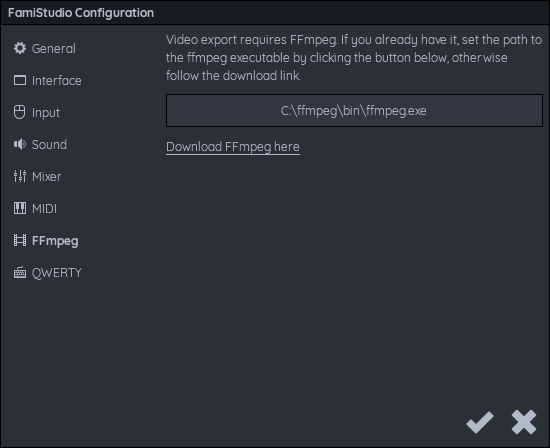
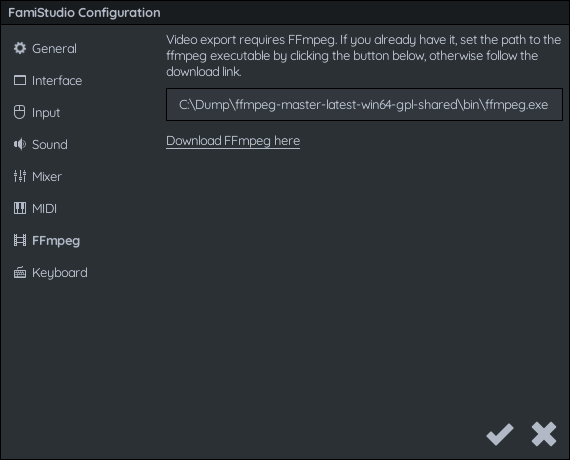
Doc update for 4.1.0.

diff --git a/Docs/docs/config.md b/Docs/docs/config.md
@@ -10,15 +10,21 @@ The configuration dialog dialog is accessed from the toolbar.
 
 ![](images/ConfigGeneral.png#center)
 
+* **Language**: Language to use in the app. These translations are user-contributed and may vary in quality/completeness. This also may affect the font used inside the app. By default, FamiStudio will try to make a best-guess based on the language of the OS.
+
 * **Check for updates**: At startup FamiStudio checks for new version online. This can be disabled.
 
 * **Show Tutorial at Startup**: If enabled, the on-boarding tutorial will be showed when FamiStudio is launched.
 
 * **Clear Undo/Redo on save**: Wipes the undo/redo stack every time the project is saved. This help keep the memory usage lower, but limits your ability to undo indefinitely.
 
+* **Rewing after play** : If enabled, the play head will move back to its previous location when stopping playback.
+
 * **Open last project on start**: Remember which project you last open and re-opens it next time you launch FamiStudio.
 
 * **Auto-save a copy every 2 minutes**: Save a backup copy of the current project every 2 minutes. This may prevent loosing data when the application crashes.
+
+* **Pattern name prefix** / **digits**: Allows customizing the default name of patterns. The prefix may be empty to get a purerely numeric name. The number of digit will be prefixed with zeroes.
 
 ## User Interface Configuration
 
@@ -39,19 +45,25 @@ The configuration dialog dialog is accessed from the toolbar.
     * **Piano Roll**: Only enables follow mode in the piano roll.
     * **Both**: Enables follow mode on both controls.<br><br>
 
+* **Follow Mode Range Limit**: The position at which follow mode your start scrolling, relative to the width of the sequencer/piano roll.
+
 * **Scroll Bars**: Display scrolls bars in the Sequencer and the Piano Roll.
 
     * **None**: No scroll bares.
     * **Thin**: Small scroll bars.
     * **Thick**: Large scroll bars.<br><br>
 
-* **Ideal Sequencer Height** : The ideal height of the Sequencer, in percentage of the height of the FamiStudio window. Note that patterns have a minimum size, so this *ideal* size may not be achievable when there are many channels.
+* **Ideal Sequencer Height**: The ideal height of the Sequencer, in percentage of the height of the FamiStudio window. Note that patterns have a minimum size, so this *ideal* size may not be achievable when there are many channels.
+
+* **DPCM Channel Color Mode**: Color to use for the notes on the DPCM channel. You may use the color of the instrument, or the color of the DPCM samples.
 
 * **Allow Sequencer Vertical Scrolling** : If enabled and the ideal height above cannot be achieve (usually because there are too many channels), will allow vertically scrolling in the sequencer instead of going above the ideal size.
 
 * **Show FamiTracker Stop Notes**: When using FamiTracker tempo mode, display implicit stop notes (whenever a note ends without being interrupted by another note) as little triangles. This makes it easier to set note delays for those.
 
-* **Show Piano Roll View Range**: Displays a yellow rectangle in the sequencer representing the view range of the piano roll.
+* **Show Register View Tab**: When enabled, will show the Register Viewer tab in the Project Explorer, which displays the state of the registers in real-time.
+
+* **Use Operating System Dialogs**: If enabled, will use the Windows dialogs for things like file open/save and message boxes. When disabled, will use the custom FamiStudio dialogs. This is only available on Windows.
 
 ## Input Configuration
 
@@ -78,7 +90,9 @@ The configuration dialog dialog is accessed from the toolbar.
 
 * **Prevent popping on square channels**: The NES/Famicom had a bug where the phase of square channels will reset around some notes (A-3, A-2, D-2, A-1, F-1, D-1, and B-0 on NTSC, or A#3, A#2, D#2, A#1, F#1, D#1, and C-0 on PAL), resulting in audible clicks or pops. This option will work around that bug using the Smooth Vibrato technique by Blaarg, resulting in smooth pitch changes. Note that this option will not carry over to FamiTracker if you export.
 
-* **Clamp periods and notes** : Notes that go below the lowest possible note or above the highest possible note will typically wrap around when listening the song on real hardware. This is due to the fact that currently the SoundEngine does not clamp notes or period to the valid range. The emulation inside FamiStudio does it by default. If you want a more hardware accurate behavior, you can disable this option.
+* **Mix Namco 163 channels**: When enabled, FamiStudio will correctly mix the Namco 163 channels. Leave this OFF and set a very agressive low-pass filter to mimic real hardware. 
+
+* **Clamp periods and notes**: Notes that go below the lowest possible note or above the highest possible note will typically wrap around when listening the song on real hardware. This is due to the fact that currently the SoundEngine does not clamp notes or period to the valid range. The emulation inside FamiStudio does it by default. If you want a more hardware accurate behavior, you can disable this option.
 
 * **Mute piano roll interactions during playback** : When enabled, dragging/adding notes in the piano roll will not preview the notes when the song is playing. Some users find this distracting.
 
@@ -108,11 +122,11 @@ Note that these settings have no effect outside of FamiStudio.
 
 FFMpeg is a video encoder required to enable video export. You can download it from [here](ffmpeg.md). Once downloaded and installed somewhere on your computer, you will need to tell FamiStudio where it is.
 
-## QWERTY Configuration
+## Keyboards Configuration
 
-![](images/ConfigQWERTY.png#center)
+![](images/ConfigKeys.png#center)
 
-This section allows remapping the keyboard keys for keyboard-piano input. This allows FamiStudio to support AZERTY, QWERTZ or any other international keyboard. Up to 2 keys can be assigned to a note.
+This section allows remapping the keyboard shortcuts for most actions. The default layout will usually be based off the QWERTY layout, but it can be modified after to support arbitrary keyboard layouts such as QWERTZ or AZERTY.
 
 ## Mobile Configuration
 

diff --git a/Docs/docs/dpcm.md b/Docs/docs/dpcm.md
@@ -2,7 +2,11 @@
 
 DPCM (Delta Pulse Code Modulation) samples are 1-bit digital samples that the NES/Famicom supports. They are of very low quality but have been used quite successfully for drums and basses. 
 
-To use a DPCM sample, it first needs to be loaded, then it needs to be assigned to a key of the piano, in the DPCM instrument.
+To use a DPCM sample, it first needs to be loaded, then it needs to be assigned to a key of the piano of a specific instrument. To edit the key/sample assignments of an instrument, click the little "sample" (rightmost) icon next to an instrument.
+
+> Prior to FamiStudio 4.1.0, only a special "DPCM Instrument" could hold samples
+> in that way. This is no longer the case, any non-expansion intrument can now hold
+> samples. 
 
 The samples workflow in FamiStudio is lossless in a way that once a sample is imported, any modification done to it will not modify the source data. Every time a parameter is changed, the source data will be re-processed to generate the final sample.
 
@@ -26,7 +30,7 @@ If you do not wish to use the built-in DPCM sample editor of FamiStudio there ar
 
 Samples are loaded by clicking the little folder icon next to the "DPCM Samples" section in the project explorer. FamiStudio can import samples from WAV files or from a DMC files. Note that importing DMC files and doing extensive processing is not recommended as these samples are very low-quality to begin with and any extra processing will degrade it further.
 
-It is also possible to import samples from another FamiStudio project. Note that doing this will not import the sample assignments to keys of the piano (DPCM Instrument). To import those as well, you maybe want to import the DPCM instrument in the Instrument section of the Project Explorer.
+It is also possible to import samples from another FamiStudio project. Note that doing this will not import the sample assignments to keys of the piano or any instrument information. To import those as well, you maybe want to import the whole instrument instrument in the Instrument section of the Project Explorer. This will import all the piano/key assignments, as well as the used samples.
 
 Once loaded, you can rename a sample or change its color by clicking the gear icon (or double-clicking on it)button. You can also play the sample by clicking the little play button next to it:
 
@@ -105,9 +109,15 @@ Clicking on the little disk icon in the Project Explorer allows you to export a 
 * Left-clicking will export the processed sample as a DMC file.
 * Right-clicking will export the source data (in its original format, WAV or DMC)
 
-## Assigning a DPCM sample to a key of the DPCM instrument
+## Assigning a DPCM sample to an instrument
 
-Once a sample is loaded, it can be assign to a key of the "DPCM instrument". Clicking on the little icon next to the DPCM Instrument in the project explorer will open the piano roll in DPCM edition mode.
+Once a sample is loaded, it can be assign to a key of an instrument. 
+
+> Prior to FamiStudio 4.1.0, only a special "DPCM Instrument" could hold samples
+> in that way. This is no longer the case, any non-expansion intrument can now hold
+> samples. 
+
+Clicking on the little "sample" (rightmost) icon next to the a non-expansion instrument in the project explorer will open the piano roll in DPCM edition mode.
 
 ![](images/DPCMInstrument.png#center)
 

diff --git a/Docs/docs/changelog.md b/Docs/docs/changelog.md
@@ -2,6 +2,36 @@
 
 Version history / release notes for each release.
 
+## Version 4.1.0
+
+System Requirement Changes:
+
+* Windows version is now 64-bit and targets .NET 5.0.
+* Linux/MacOS versions now uses .NET 6.0. Mono is not longer used (See [installation](install.md) page for .NET download links)
+* All desktop version now requires OpenGL 3.3.
+* Android version now requires OpenGL ES 2.0.
+* Windows 7 and 32-bit systems are longer supported.
+
+Changes/Fixes:
+
+* Configurable keyboard shortcuts
+* Text rendering changes, small text may look slightly blurrier. 
+* More UI scaling % options
+* More context menus options throughout the app
+* DPCM improvements:
+	* No more "DPCM instrument", each instrument can have DPCM samples assigned (a-la FamiTracker)
+	* Up to 256KB of samples using bank switching.
+* Option to mix N163 or not
+* Project explorer sorting improvements
+* NSF import support on Android
+* Stereo and delay export support on Android.
+* Sunsoft 5B noise support (Perkka contribution)
+* Experimental VGM import support (Perkka contribution)
+* Experimental translations 
+	* Spanish (MiniTube contribution)
+	* Portuguese (PBnJK contribution)
+	* Simplified chinese (xwjcool123 contribution)
+
 ## Version 4.0.6 (Hotfix)
 
 Changes/Fixes:

diff --git a/Docs/docs/instruments.md b/Docs/docs/instruments.md
@@ -4,12 +4,13 @@ The project explorer displays the list of songs and instruments in the current p
 
 ![](images/ProjectExplorer.png#center)
 
-Most standard instruments have 4 buttons :
+Most standard instruments have 5 buttons :
 
 * The duty cycle envelope
 * The volume envelope
 * The pitch envelope
 * The arpeggio envelope
+* DPCM Samples
 
 An envelope is simply a parameter that can change over the duration of a note as it plays. It can be used to create vibrato, tremolo, change the attack and release of a note, for example. If an instrument currently has no envelope for a particular type, it will appear dimmed.
 
@@ -89,9 +90,9 @@ Clicking on an envelope button and dragging it on another instrument will copy t
 
 Envelopes cannot be deleted per-se, they can be cleared to they have essentially no effect. To clear and envelope, simply select the "Clear Envelope" option from the instrument context menu.
 
-# DPCM Instrument
+# Editing DPCM Samples
 
-The DPCM Instrument is a special instrument able to play DPCM samples. It is always present and cannot be deleted. For more information, please refer to the [DPCM Samples](dpcm.md) section. 
+DPCM Samples are covered in depth in the [DPCM Samples](dpcm.md) section. 
 
 # Editing Arpeggios
 

diff --git a/Docs/docs/import.md b/Docs/docs/import.md
@@ -26,8 +26,6 @@ Note that only a small subset of features is supported. Only the following effec
 
 Besides effects, there are also other limitations:
 
-* If multiple instruments assign DPCM samples to the same key of the DPCM instrument, only the first one will be assigned. Other samples will be loaded, but unassigned to any keys.
-* All DPCM samples will be loaded (and potentially assigned to a key of the DPCM instrument) but any sample over the 16KB FamiStudio limit will not play correctly or at all.
 * VRC7 1xx/2xx/3xx/Qxx/Rxx effects will likely not sound like FamiTracker and will need manual corrections.
 * Instruments using both pitch and arpeggio envelopes at the same time will likely not sound the same as in FamiTracker. This is due to the vastly different way both applications handles these. FamiTracker resets the pitch at each arpeggio notes, while FamiStudio does not. 
 * VRC6 saw channel is not influenced by duty cycle in FamiStudio. FamiStudio has a "saw master volume" on VRC6 instruments. Import/export process does not try account for this. Manual corrections may be needed.

diff --git a/Docs/docs/thanks.md b/Docs/docs/thanks.md
@@ -31,6 +31,9 @@ Created by the [Xiph.Org Foundation](https://xiph.org/). Used for the OGG/Vorbis
 ### GLFW
 [GLFW](https://www.glfw.org/) is a very simple windowing & input management system for OpenGL. It is used by all 3 platforms on Desktop for the main FamiStudio window. The C# bindings are provided by [GLFWDotNet](https://github.com/smack0007/GLFWDotNet).
 
+### Stb
+[Stb](https://github.com/nothings/stb) is a fantastic, pure-C, single-file library that does a bunch of low-level things that are useful for game development. FamiStudio uses their True-Type font rasterization and rectangle packing code for its text rendering.
+
 ## Demo Songs
 
 A few demo songs are also provided with FamiStudio. Unless mentioned, the demo songs are my re-creations, done by reverse-engineering the NSF.

diff --git a/Docs/docs/song.md b/Docs/docs/song.md
@@ -64,9 +64,9 @@ Right below the project name are the songs.
 
 To add new songs, simply click on the little "+" icon on the song header.
 
-## Reordering songs
+## Reordering songs, instruments, DPCM Samples or Arpeggios
 
-You can drag & drop songs to reorder them in the list. Songs are the only things that are not always sorted alphabetically in the project explorer at the moment.
+Each section of the project explorer has a little "sort" button (A-Z) next to it. If highlighted, it means items will be kept in alphabetical order. Disabling this will allow you to re-order things to your liking. Re-ordering an item will disable auto-sorting.
 
 ## Importing/Merging songs
 

diff --git a/Docs/docs/install.md b/Docs/docs/install.md
@@ -1,10 +1,14 @@
+---
+description: Allo
+---
+
 # Installation
 
 ## System requirements
 
 For all 3 desktop platforms, FamiStudio requires the following software/hardware environment:
 
-* Windows 8 or newer (Windows 7 is no longer supported).
+* Windows 8 (64-bit) or newer (Windows 7 or 32-bit systems are no longer supported).
 * MacOS 10.15 "Catalina" or newer
 * .NET Runtime (5.0 on Windows, 6.0 on other platforms)
 * OpenGL 3.3 support or newer
